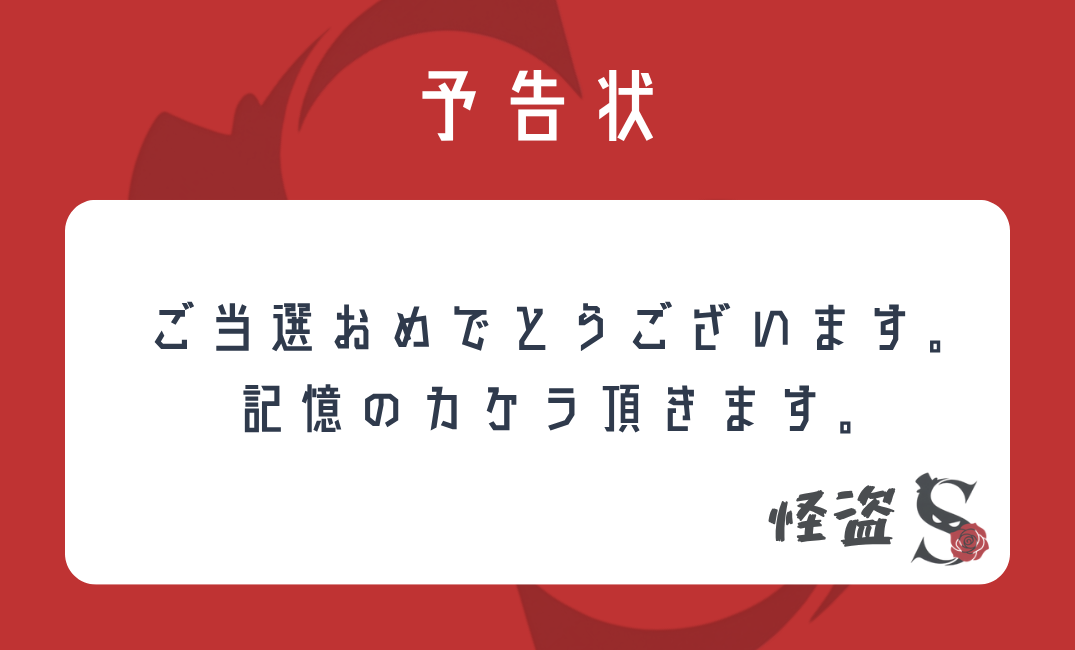
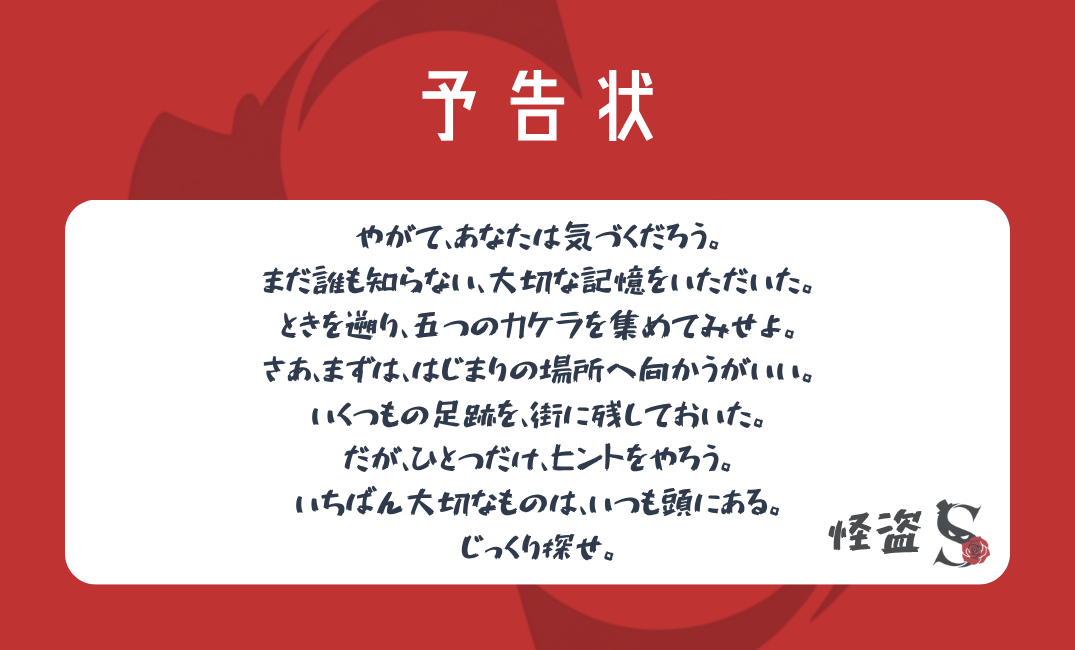
[update] 赤い月からanswer..htmlへ遷移を導入

Changed region(s): [[0.1535, 0.3385, 0.9209, 0.8923], [0.8595, 0.5231, 0.8902, 0.5538]]

diff --git a/index.html b/index.html
@@ -41,11 +41,16 @@ body{background:#080b13;color:var(--text);font-family:"Hiragino Sans","Noto Sans
 
 /* ===== スカイライン(ヒーロー最上部) ===== */
 .skyline{margin:-52px -24px 30px;border-bottom:1px solid var(--line);background:linear-gradient(180deg,rgba(194,50,50,.1),transparent 70%)}
-.skyline svg{display:block;width:100%;height:auto}
+.skyline svg{display:block;width:100%;height:auto;-webkit-user-select:none;user-select:none;-webkit-touch-callout:none}
 .wheel{transform-box:view-box;transform-origin:178px 70px;animation:spin 70s linear infinite}
 .tw{animation:tw 3.4s ease-in-out infinite}
 @keyframes spin{to{transform:rotate(360deg)}}
 @keyframes tw{0%,100%{opacity:.2}50%{opacity:.9}}
+
+/* 赤い月: 3秒押し続けると、怪盗Sの隠しページが開く(押している間、輪が満ちていく) */
+.moon-ring{transform:rotate(-90deg);transform-origin:64px 44px;stroke-dasharray:157;stroke-dashoffset:157;opacity:0;transition:stroke-dashoffset .35s ease,opacity .35s ease}
+.moon-ring.hold{opacity:1;stroke-dashoffset:0;transition:stroke-dashoffset 3s linear,opacity .2s ease}
+#moonHit{-webkit-tap-highlight-color:transparent}
 
 .kicker{display:inline-block;font-size:.8rem;color:var(--gold-l);letter-spacing:.2em;margin-bottom:16px;padding-bottom:6px;border-bottom:1px solid var(--red)}
 h1{font-size:clamp(1.5rem,7.6vw,2.2rem);line-height:1.3;font-weight:800;letter-spacing:.08em;color:#fff;background:linear-gradient(180deg,#fff 35%,var(--gold-l));-webkit-background-clip:text;background-clip:text;-webkit-text-fill-color:transparent;filter:drop-shadow(0 2px 14px rgba(0,0,0,.6))}
@@ -181,6 +186,38 @@ body.intro .kaito{animation-play-state:paused}
 /* 手紙のセクション(プロローグの下) */
 .letter-section{border-top:none;padding-top:28px;text-align:center}
 .letter-section .seal-area{margin-top:0}
+
+/* 管理人 奥(予告状を読み終えるころに現れる) */
+.oku-wrap{max-height:0;overflow:hidden;opacity:0;transition:max-height .9s ease,opacity .9s ease}
+.oku-wrap.show{max-height:900px;opacity:1}
+.oku{margin:28px 0 0;padding:16px 16px 18px;text-align:left;background:var(--panel);border:1px solid var(--line);border-radius:12px;box-shadow:0 8px 22px rgba(0,0,0,.35)}
+.oku-h{display:flex;align-items:center;gap:10px;margin-bottom:8px}
+.oku-av{flex:none;width:36px;height:36px;border-radius:50%;background:linear-gradient(135deg,#3a4668,#1f2740);color:#dfe5f0;display:flex;align-items:center;justify-content:center;font-family:"Shippori Mincho",serif;font-weight:700}
+.oku-nm{display:flex;flex-direction:column;line-height:1.35;font-size:.82rem}
+.oku-nm b{color:#fff}
+.oku-nm i{font-style:normal;color:var(--muted);font-size:.7rem}
+.oku p{font-size:.88rem;line-height:1.95;color:#dfe5f0}
+.oku p+p{margin-top:6px}
+
+/* 怪盗Sの隠しページ(赤い月を3秒押し続けると開く) */
+#moonfx{position:fixed;inset:0;z-index:900;display:flex;align-items:center;justify-content:center;padding:24px;background:rgba(5,8,14,0);transition:background .7s ease}
+#moonfx.on{background:rgba(5,8,14,.94)}
+#moonfx[hidden]{display:none}
+.moon-card{width:100%;max-width:380px;padding:28px 22px 22px;text-align:center;background:var(--panel);border:1px solid var(--line);border-radius:14px;box-shadow:0 20px 50px rgba(0,0,0,.6);opacity:0;transform:translateY(14px);transition:opacity .8s ease .2s,transform .8s ease .2s}
+#moonfx.on .moon-card{opacity:1;transform:none}
+.moon-seal{width:52px;height:52px;margin:0 auto 14px;border-radius:50%;background:radial-gradient(circle at 35% 30%,#b13a46,#8e2a35 55%,#6f1f29);display:flex;align-items:center;justify-content:center;font:700 1.4rem/1 "Shippori Mincho",serif;color:rgba(255,255,255,.75);box-shadow:0 4px 14px rgba(0,0,0,.5)}
+.moon-l{font-size:1rem;line-height:2;color:#f1e6c8;letter-spacing:.08em}
+.moon-form{margin-top:18px;display:flex;flex-direction:column;gap:10px}
+.moon-form[hidden]{display:none}
+.moon-form input{width:100%;padding:13px 14px;font-size:1.05rem;text-align:center;letter-spacing:.15em;color:#fff;background:#0b101c;border:1px solid var(--gold);border-radius:10px;outline:none;font-family:"Shippori Mincho",serif}
+.moon-form input::placeholder{color:#4a566e}
+.moon-form input:focus{box-shadow:0 0 0 3px rgba(201,162,75,.25)}
+.moon-form button{padding:13px;border:none;border-radius:10px;background:linear-gradient(135deg,#d9b559,#a98128);color:#1a1405;font:inherit;font-weight:700;letter-spacing:.35em;cursor:pointer}
+.moon-form.shake{animation:moonShake .45s}
+@keyframes moonShake{0%,100%{transform:translateX(0)}20%{transform:translateX(-9px)}40%{transform:translateX(8px)}60%{transform:translateX(-6px)}80%{transform:translateX(4px)}}
+.moon-msg{min-height:1.8em;margin-top:12px;font-size:.84rem;color:#f08a8a;line-height:1.8}
+.moon-msg.ok{color:var(--gold-l);font-size:.95rem;font-family:"Shippori Mincho",serif}
+.moon-close{margin-top:10px;background:none;border:none;color:#64748b;font:inherit;font-size:.72rem;letter-spacing:.2em;text-decoration:underline;cursor:pointer}
 
 /* プロローグ(怪盗Sの画像 + 物語) */
 .story-fig{margin:0 0 26px;border-radius:8px;overflow:hidden;box-shadow:0 10px 30px rgba(0,0,0,.55),0 0 0 1px var(--line)}
@@ -369,6 +406,10 @@ body.intro .hero .kicker,body.intro .hero h1,body.intro .hero .sub,body.intro .h
         <rect x="340" y="40" width="18" height="90" fill="url(#win)"/>
         <path d="M296 22h68v28h-68z M312 29h36v14h-36z" fill="#1f2a42" fill-rule="evenodd"/>
         <rect x="296" y="22" width="68" height="1.5" fill="#c9a24b" opacity=".7"/>
+
+        <!-- 赤い月: 3秒押し続けると、怪盗Sの隠しページが開く(押している間、輪が満ちていく) -->
+        <circle id="moonRing" class="moon-ring" cx="64" cy="44" r="25" fill="none" stroke="#ecd9a0" stroke-width="1.6" stroke-linecap="round"/>
+        <circle id="moonHit" cx="64" cy="44" r="28" fill="transparent" pointer-events="all" style="cursor:pointer;touch-action:none"/>
       </svg>
     </div>
 
@@ -412,18 +453,32 @@ body.intro .hero .kicker,body.intro .hero h1,body.intro .hero .sub,body.intro .h
         <img id="notice-img" alt="怪盗Sからの予告状">
       </figure>
 
-      <!-- 予備の文章版。画像が読み込めない時だけ表示 -->
+      <!-- 予備の文章版。画像が読み込めない時だけ表示(各行の頭文字を縦に読むと「やまとさいだいじ」) -->
       <div class="letter" id="letter" role="region" aria-label="怪盗Sからの予告状">
         <h2>予告状</h2>
-        <p>やがて、あなたは気づくだろう。</p>
-        <p>まだ誰も知らない、大切な記憶をいただいた。</p>
-        <p>ときを遡り、五つのカケラを集めてみせよ。</p>
+        <p>やがて、あなたの大切な記憶を、頂戴いたします。</p>
+        <p>まだ誰も知らない、その記憶は、五つに砕きました。</p>
+        <p>ときを遡り、カケラを集めてみなさい。</p>
         <p>さあ、まずは、はじまりの場所へ向かうがいい。</p>
         <p>いくつもの足跡を、街に残しておいた。</p>
         <p>だが、ひとつだけ、ヒントをやろう。</p>
         <p>いちばん大切なものは、いつも頭にある。</p>
         <p>じっくり探せ。</p>
         <p class="sign">怪盗S</p>
+      </div>
+    </div>
+
+    <!-- 管理人 奥: もう1通の予告状(封筒①)へ案内する -->
+    <div class="oku-wrap" id="oku">
+      <div class="oku">
+        <div class="oku-h">
+          <span class="oku-av">奥</span>
+          <span class="oku-nm"><b>管理人 奥</b><i>怪盗S目撃情報掲示板</i></span>
+        </div>
+        <p>はじめまして。怪盗Sの目撃情報を集めている、掲示板の管理人の奥です。</p>
+        <p>実は、あなたのもとに、もう1通、予告状が届いています。こちらでお預かりして、キットに同封しました。</p>
+        <p>お手元の「封筒①」を、開けてみてください。</p>
+        <p>中の予告状の謎を解くと、怪盗Sの隠しページに、たどり着けるはずです。</p>
       </div>
     </div>
   </section>
@@ -486,6 +541,21 @@ body.intro .hero .kicker,body.intro .hero h1,body.intro .hero .sub,body.intro .h
     <p class="credit serif">企画・制作 SCRAP</p>
     <p class="fine">※内容は予告なく変更される場合があります。<br>© 2026 SCRAP</p>
   </footer>
+</div>
+
+<!-- 怪盗Sの隠しページ: 赤い月を3秒押し続けると開く -->
+<div id="moonfx" hidden role="dialog" aria-label="怪盗S">
+  <div class="moon-card">
+    <div class="moon-seal">S</div>
+    <p class="moon-l serif">……よくここがわかったな。</p>
+    <p class="moon-l serif">では、最初の行き先を、答えてみせなさい。</p>
+    <form class="moon-form" id="moonForm" autocomplete="off">
+      <input id="moonInput" type="text" placeholder="最初の行き先" autocomplete="off" autocapitalize="off" autocorrect="off" spellcheck="false" enterkeyhint="go">
+      <button type="submit">答える</button>
+    </form>
+    <p class="moon-msg" id="moonMsg" role="status" aria-live="polite"></p>
+    <button type="button" class="moon-close" id="moonClose">とじる</button>
+  </div>
 </div>
 
 <!-- オープニングの制御(本編のスクリプトとは別にして、エラーの影響を受けないようにしています) -->
@@ -635,6 +705,83 @@ body.intro .hero .kicker,body.intro .hero h1,body.intro .hero .sub,body.intro .h
   }
   seal.addEventListener('click',function(){
     if(seal.classList.contains('open')&&!reduce) burst();
+  });
+
+  // ===== 管理人 奥: 封を切って、予告状を読み終えるころに現れる =====
+  var oku=document.getElementById('oku'),okuShown=false;
+  seal.addEventListener('click',function(){
+    if(!seal.classList.contains('open')||okuShown){return;}
+    okuShown=true;
+    setTimeout(function(){oku.classList.add('show');},reduce?0:(notice.hidden?6000:2500));
+  });
+
+  // ===== 赤い月を、3秒押し続けると、怪盗Sの隠しページが開く =====
+  // 押し間違いを防ぐため、短くタップしただけでは、何も起きません(押している間だけ、輪が満ちていきます)。
+  var MOON_HOLD=3000;                                                    // 押し続ける時間(ミリ秒)
+  var MOON_ANSWERS=['やまとさいだいじ','大和西大寺','大和西大寺駅','yamatosaidaiji']; // 最初の行き先(いくつ書いてもOK)
+  var BOARD_URL='answer.html';                                           // 正解したあとに、移動するページ
+  var MOON_FAILS=['……その場所では、ない。','もう一度、予告状を読み直しなさい。'];
+  var MOON_NUDGE=['私の予告状には、見落としがある。「頭」という言葉に、気をつけることだ。','各行の、いちばん最初の文字を、縦に読んでみなさい。'];
+  var moonHit=document.getElementById('moonHit'),moonRing=document.getElementById('moonRing');
+  var moonfx=document.getElementById('moonfx'),moonForm=document.getElementById('moonForm'),moonInput=document.getElementById('moonInput'),moonMsg=document.getElementById('moonMsg'),moonClose=document.getElementById('moonClose');
+  var holdTimer=null,holding=false,moonWrong=0;
+  function vib(ms){try{if(navigator.vibrate){navigator.vibrate(ms);}}catch(e){}}
+  function moonNorm(s){
+    s=(s||'');
+    if(s.normalize){s=s.normalize('NFKC');}
+    s=s.toLowerCase();
+    s=s.replace(/[\u30a1-\u30f6]/g,function(c){return String.fromCharCode(c.charCodeAt(0)-0x60);});  // カタカナ→ひらがな
+    s=s.replace(/[\s.,\-_\/:;!?'"「」『』()・、。]/g,'');
+    return s;
+  }
+  function startHold(e){
+    if(holding){return;}
+    holding=true;
+    moonRing.classList.add('hold');
+    vib(20);
+    holdTimer=setTimeout(openMoon,MOON_HOLD);
+  }
+  function cancelHold(){
+    if(!holding){return;}
+    holding=false;
+    clearTimeout(holdTimer);
+    moonRing.classList.remove('hold');
+  }
+  function openMoon(){
+    holding=false;
+    moonRing.classList.remove('hold');
+    vib(90);
+    moonfx.hidden=false;
+    void moonfx.offsetWidth;
+    moonfx.classList.add('on');
+  }
+  moonHit.addEventListener('pointerdown',startHold);
+  moonHit.addEventListener('pointerup',cancelHold);
+  moonHit.addEventListener('pointercancel',cancelHold);
+  moonHit.addEventListener('pointerleave',cancelHold);
+  moonHit.addEventListener('contextmenu',function(e){e.preventDefault();});
+  moonForm.addEventListener('submit',function(e){
+    e.preventDefault();
+    var v=moonNorm(moonInput.value);
+    if(!v){return;}
+    var ok=MOON_ANSWERS.some(function(a){return moonNorm(a)===v;});
+    if(!ok){
+      moonWrong++;
+      moonMsg.className='moon-msg';
+      moonMsg.textContent=moonWrong>=2?MOON_NUDGE[Math.min(Math.floor(moonWrong/2)-1,MOON_NUDGE.length-1)]:MOON_FAILS[Math.floor(Math.random()*MOON_FAILS.length)];
+      moonForm.classList.remove('shake');void moonForm.offsetWidth;moonForm.classList.add('shake');
+      vib(60);
+      return;
+    }
+    moonForm.hidden=true;
+    moonMsg.className='moon-msg ok';
+    moonMsg.textContent='……よかろう。ついてきなさい。';
+    vib(90);
+    setTimeout(function(){location.href=BOARD_URL;},reduce?0:1800);
+  });
+  moonClose.addEventListener('click',function(){
+    moonfx.classList.remove('on');
+    setTimeout(function(){moonfx.hidden=true;},reduce?0:700);
   });
 
   // ===== スクロールでふわっと表示 =====

diff --git a/answer.html b/answer.html
@@ -52,6 +52,11 @@ h1{font-size:clamp(1.6rem,8vw,2.1rem);line-height:1.3;font-weight:800;letter-spa
 /* ===== 目撃掲示板(枠は共通。投稿の中に入る「添付資料」で見た目を変える) ===== */
 .board-head{padding:38px 24px 20px;text-align:center;background:radial-gradient(ellipse 80% 60% at 50% 0%,rgba(194,50,50,.16),transparent 70%)}
 .feed{padding:6px 16px 10px}
+/* 章の切り替え(第一章、第二章 …) */
+.chs{display:flex;gap:8px;padding:0 16px 14px;overflow-x:auto;-webkit-overflow-scrolling:touch}
+.chs[hidden]{display:none}
+.chp{flex:none;padding:7px 16px;border:1px solid var(--line);border-radius:20px;background:transparent;color:var(--muted);font:inherit;font-size:.78rem;letter-spacing:.12em;cursor:pointer;-webkit-tap-highlight-color:transparent}
+.chp[aria-selected="true"]{color:#1a1405;background:var(--gold);border-color:var(--gold);font-weight:700}
 .post{margin:0 0 20px;padding:16px 16px 18px;background:var(--panel);border:1px solid var(--line);border-radius:12px;box-shadow:0 8px 22px rgba(0,0,0,.35);animation:rise .8s ease both}
 .post-h{display:flex;flex-wrap:wrap;gap:4px 10px;align-items:center;font-size:.72rem;color:var(--muted)}
 .tag{background:var(--red);color:#fff;padding:1px 11px;border-radius:12px;font-size:.68rem;letter-spacing:.12em}
@@ -251,7 +256,7 @@ h1{font-size:clamp(1.6rem,8vw,2.1rem);line-height:1.3;font-weight:800;letter-spa
 <body>
 <div class="wrap">
   <header class="top">
-    <span>UMEDA MYSTERY PROJECT</span>
+    <span>KANSAI MYSTERY PROJECT</span>
     <button type="button" class="snd" id="snd" aria-pressed="false">音 ON</button>
   </header>
 
@@ -266,6 +271,7 @@ h1{font-size:clamp(1.6rem,8vw,2.1rem);line-height:1.3;font-weight:800;letter-spa
       <h1 class="serif">怪盗S 目撃情報</h1>
       <p class="sub">黒い影を見かけたら、情報をお寄せください。</p>
     </div>
+    <div class="chs" id="chs" hidden></div>
     <div class="feed" id="feed"></div>
     <p class="foot">投稿は、届いた順に並んでいます。<br>© 2026 SCRAP</p>
   </div>
@@ -380,6 +386,16 @@ h1{font-size:clamp(1.6rem,8vw,2.1rem);line-height:1.3;font-weight:800;letter-spa
   //        mailBtn … 予告状を見るボタン(演出なしで、表向きの予告状が出る)
   // 投稿の順番は、配列の順番です。img は同じフォルダの画像ファイル名。
   var POSTS=[
+    {
+      // QRコードで掲示板に入ったときの、最初のあいさつ(名乗りは、本文の「管理人の奥です」だけ。表示名は、ほかの投稿と同じ「管理人」)
+      id:'p0', tag:'ご挨拶', who:'管理人', when:'今朝',
+      text:[
+        'はじめまして、管理人の奥です。',
+        'あの謎を解ける名探偵のあなたを信頼して、怪盗Sの目撃情報を、共有します。',
+        'まずは、大和西大寺の駅から、最初の目撃情報を確認してください。'
+      ],
+      gate:'button', btn:'目撃情報を見る'
+    },
     {
       id:'p1', tag:'目撃', who:'通りすがりの会社員', when:'昨夜 21:47',
       img:'saidaizi_01.png', alt:'大和西大寺駅を出て左へ進んだ先の景色。奥に、うっすらと黒い影',
@@ -1015,6 +1031,69 @@ h1{font-size:clamp(1.6rem,8vw,2.1rem);line-height:1.3;font-weight:800;letter-spa
     var n=renderNew0(scroll);
     if(all()&&finalArea.hidden){finalArea.hidden=false;}
     return n;
+  };
+
+  // ===== 掲示板を、章ごとに分けて表示する =====
+  // 各章の最初の投稿の id を、順番に並べます(下の例: 第一章は p1 から、第二章は p4 から …)。
+  var CHAPTER_STARTS=['p0','p4','p9','p11','p13','p15'];
+  var KANJI=['','一','二','三','四','五','六','七','八','九'];
+  var chs=$('chs'),curCh=0,pendingCh=0;
+  function chapterOf(idx){
+    if(ALL[idx].demo){return 99;}
+    var c=1,k,j;
+    for(k=0;k<CHAPTER_STARTS.length;k++){
+      for(j=0;j<ALL.length;j++){if(ALL[j].id===CHAPTER_STARTS[k]&&idx>=j){c=k+1;}}
+    }
+    return c;
+  }
+  function chapterList(){
+    var set={},arr=[],n;
+    ALL.forEach(function(p,idx){if(visible(idx)){set[chapterOf(idx)]=1;}});
+    for(n=1;n<KANJI.length;n++){if(set[n]){arr.push(n);}}
+    if(set[99]){arr.push(99);}
+    return arr;
+  }
+  function latestCh(){
+    var l=chapterList(),m=0;
+    l.forEach(function(n){if(n!==99&&n>m){m=n;}});
+    return m||(l.length?99:1);
+  }
+  function renderPills(){
+    var list=chapterList();
+    chs.innerHTML='';
+    chs.hidden=list.length<2;
+    list.forEach(function(n){
+      var b=mk('button','chp',n===99?'見本':'第'+KANJI[n]+'章');
+      b.type='button';b.setAttribute('aria-selected',n===curCh?'true':'false');
+      b.addEventListener('click',function(){showChapter(n);});
+      chs.appendChild(b);
+    });
+  }
+  function showChapter(n){
+    curCh=n;
+    var els=feed.children,j;
+    for(j=0;j<els.length;j++){els[j].hidden=(Number(els[j].getAttribute('data-ch'))!==n);}
+    renderPills();
+  }
+  var makePost0=makePost;
+  makePost=function(p,idx){
+    var a=makePost0(p,idx);
+    a.setAttribute('data-ch',String(chapterOf(idx)));
+    return a;
+  };
+  var renderNew1=renderNew;
+  renderNew=function(scroll){
+    var n=renderNew1(scroll);
+    if(n>0){
+      var latest=latestCh();
+      if(tab==='b'){showChapter(latest);}else{pendingCh=latest;}   // 新しい章が増えたら、その章を開く
+    }
+    return n;
+  };
+  var setTab1=setTab;
+  setTab=function(t,noScroll){
+    setTab1(t,noScroll);
+    if(t==='b'&&pendingCh){showChapter(pendingCh);pendingCh=0;}
   };
   function solvedPost(idx){
     var p=ALL[idx];
